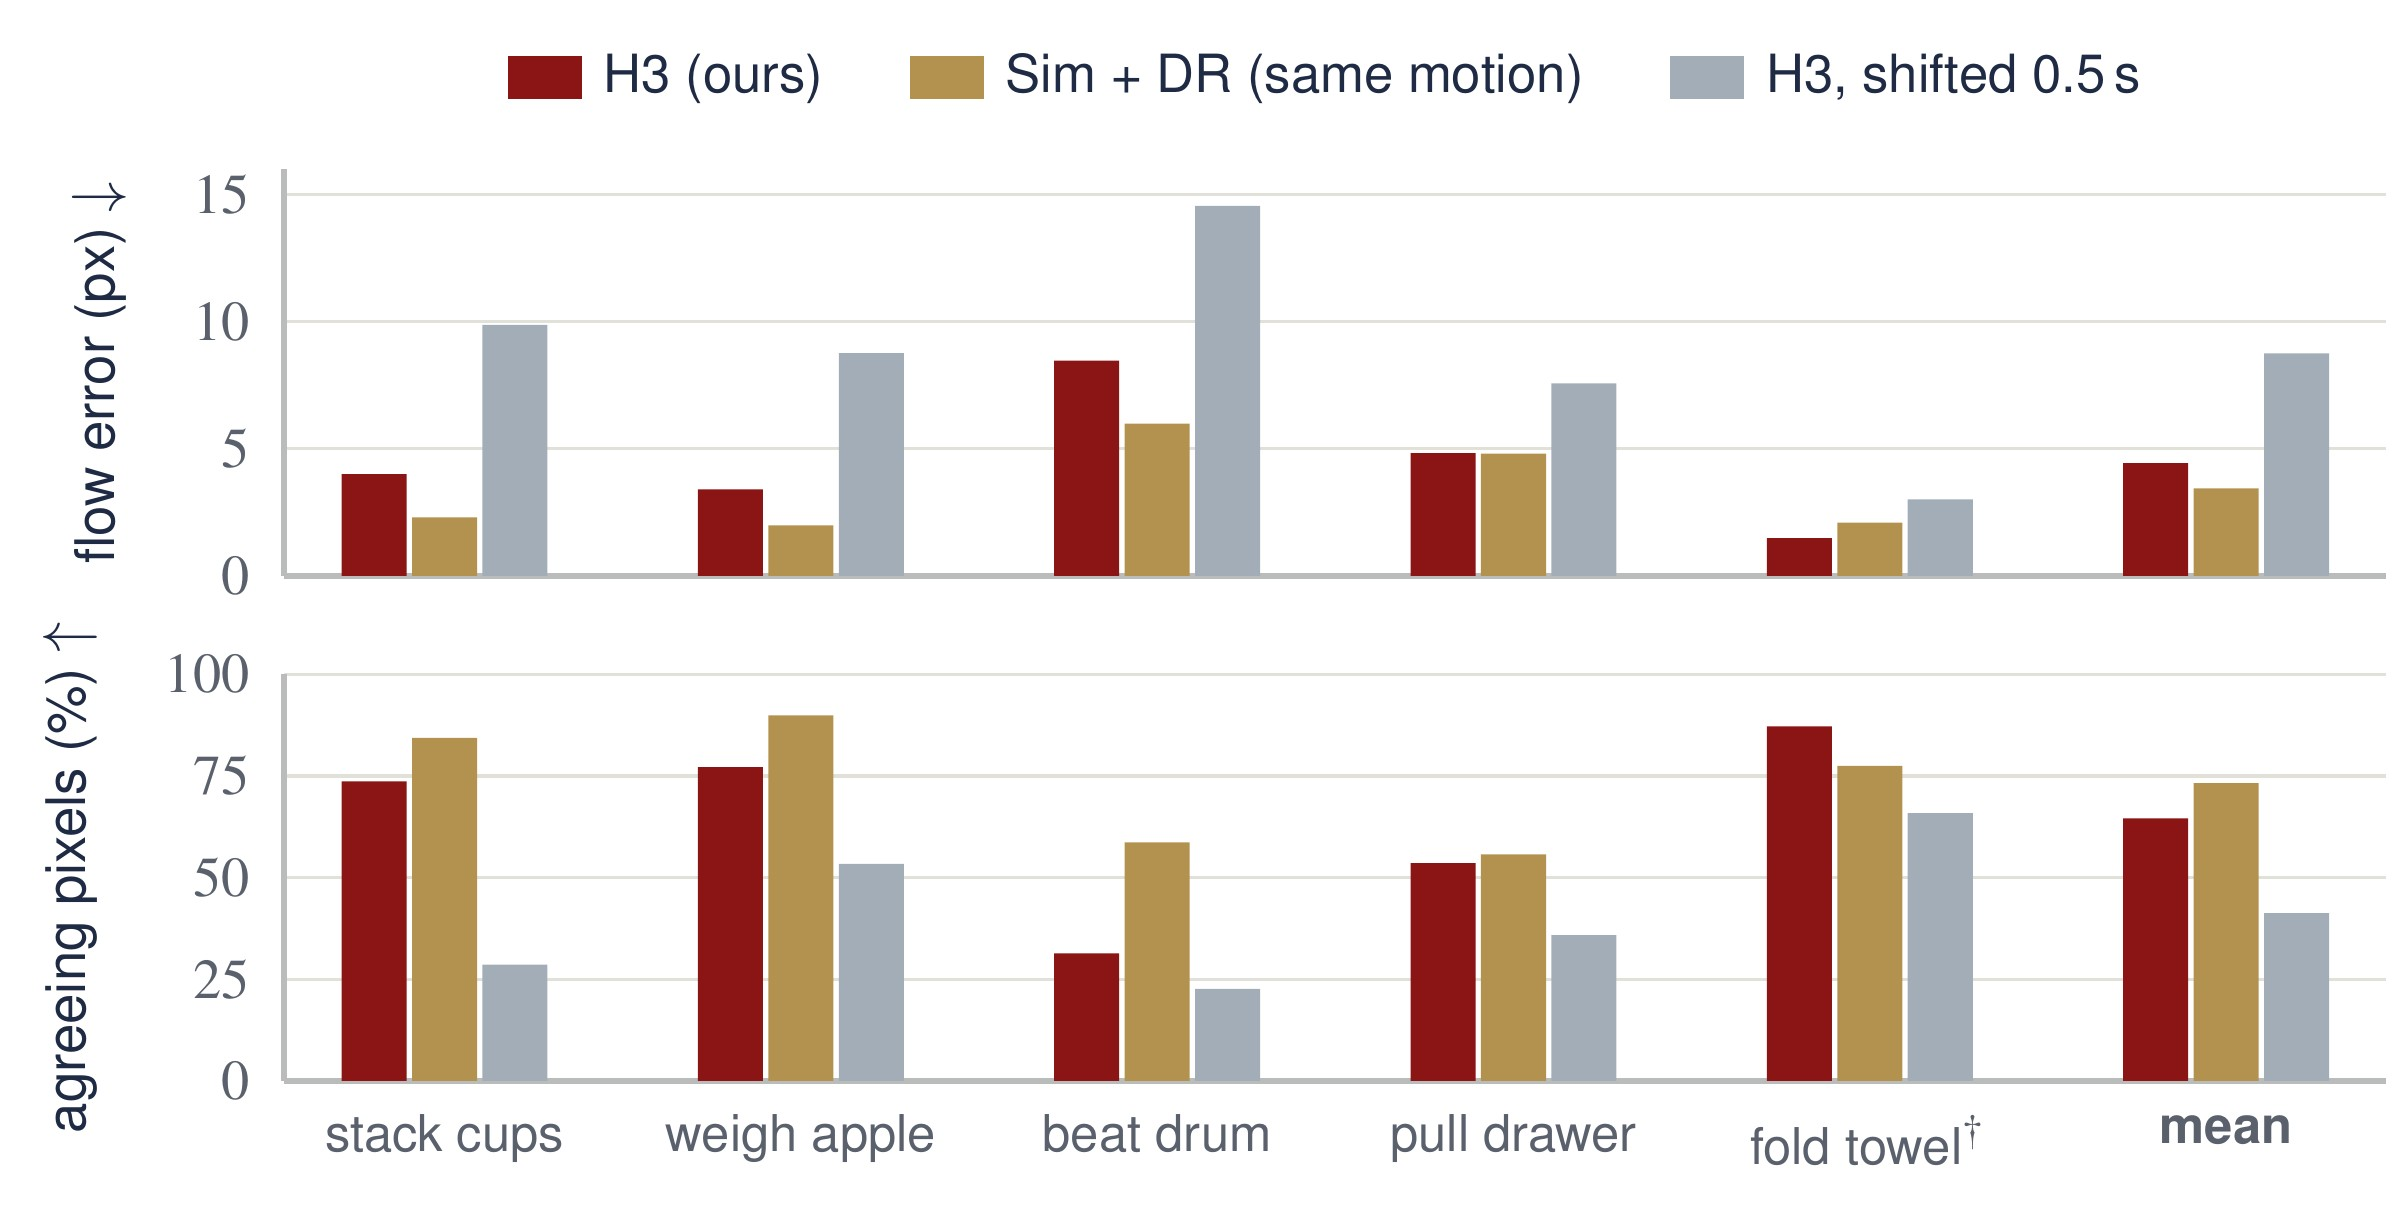
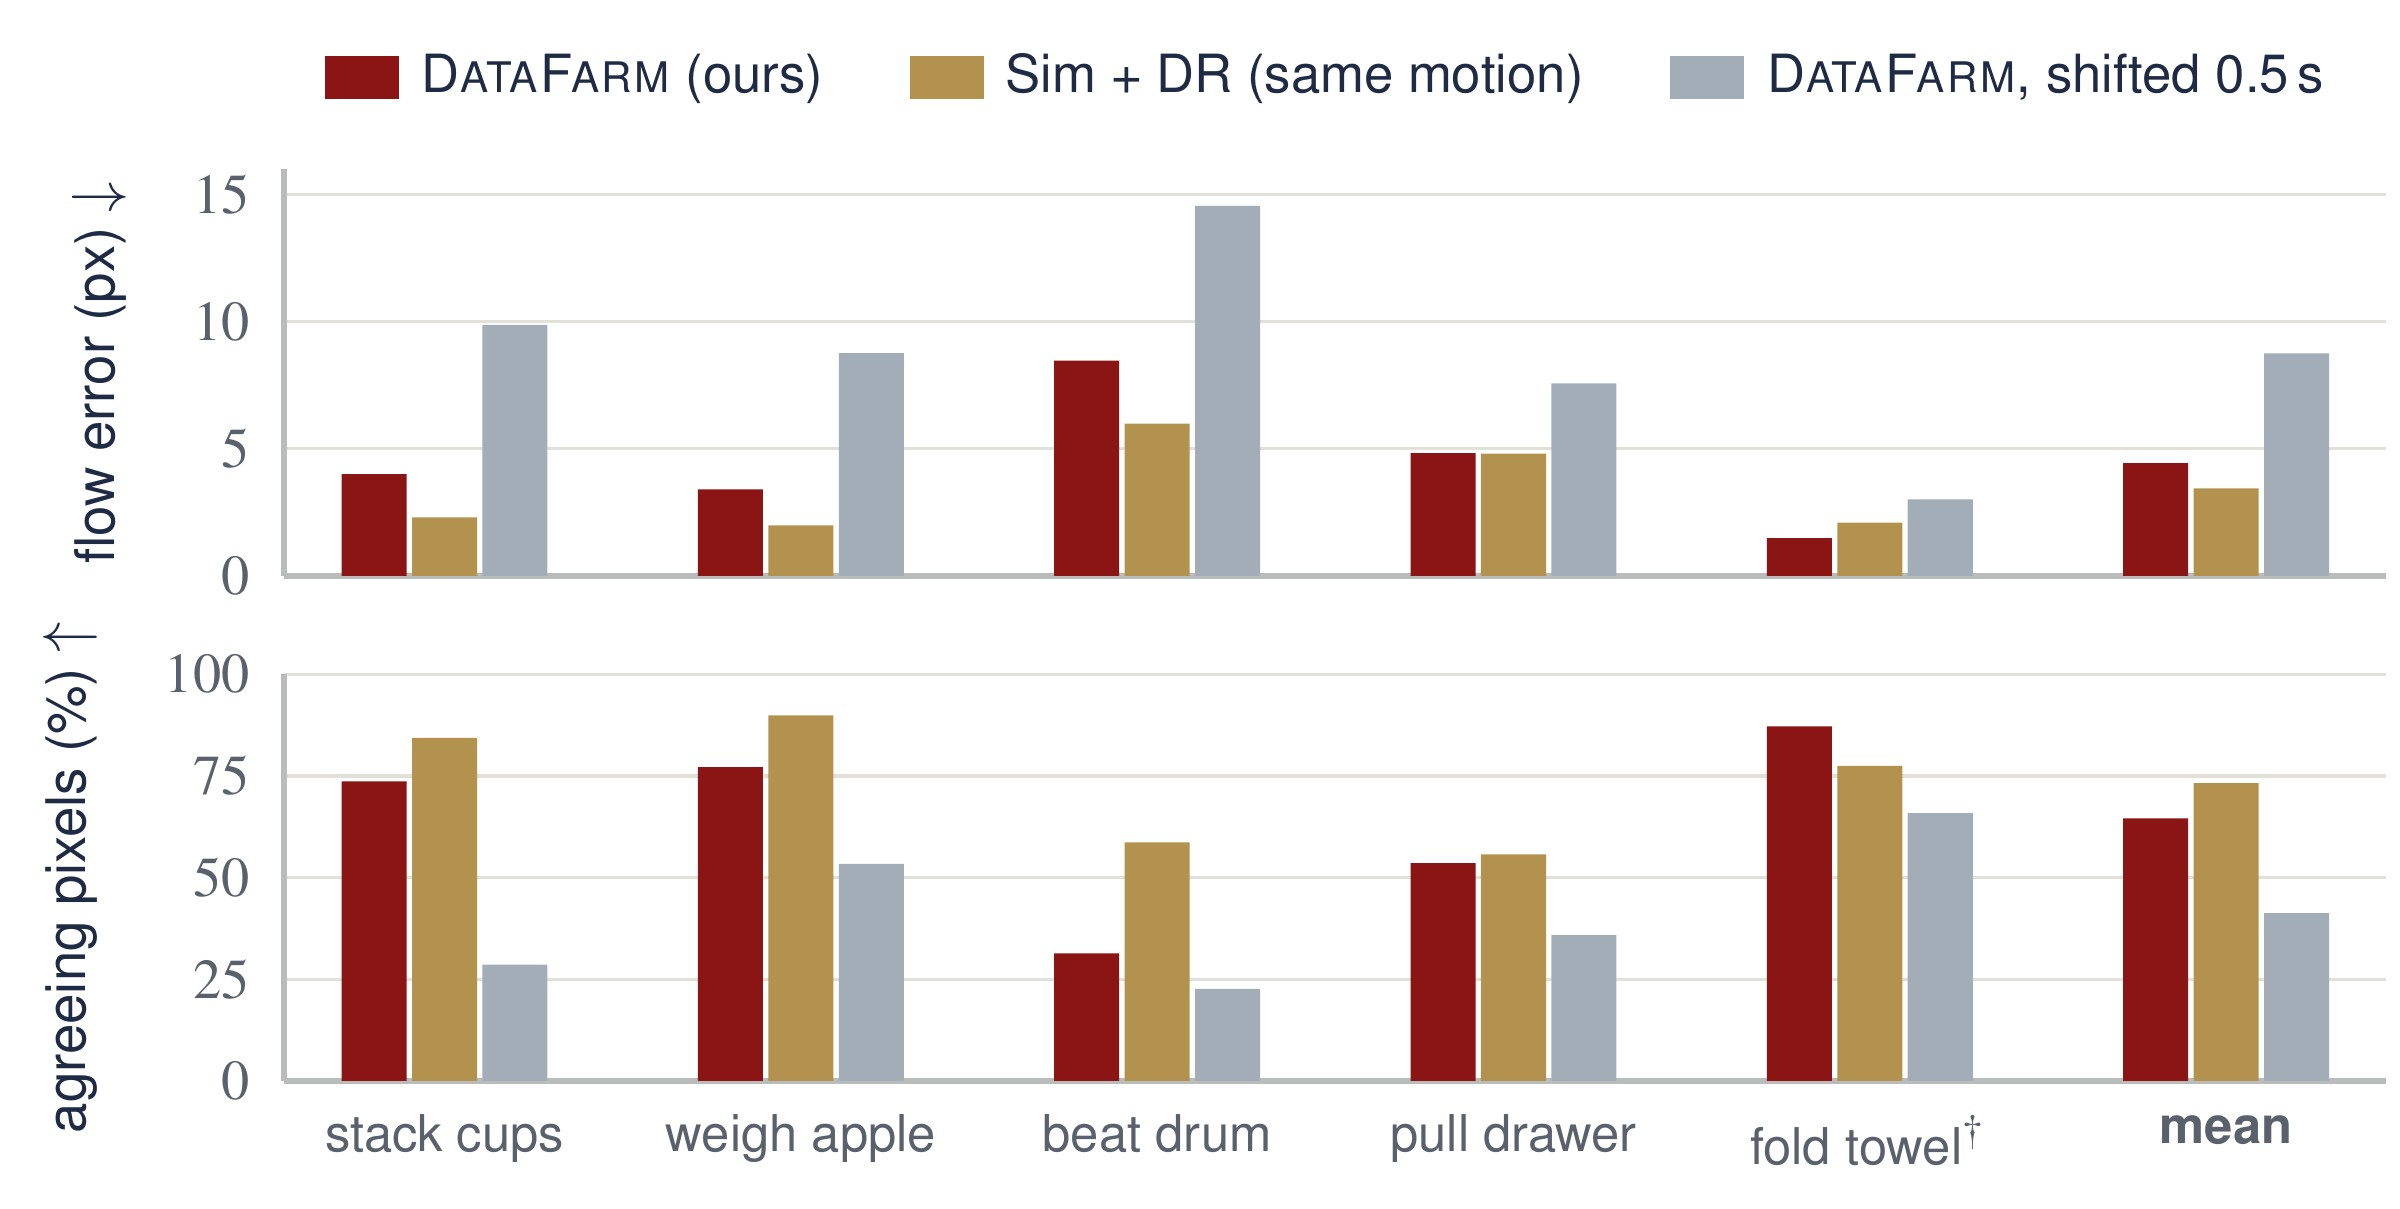
Drop the H3 / Seedance labels (r2s2v-paper aeac397)

Changed region(s): [[0.7188, 0.0306, 0.9688, 0.0918], [0.125, 0.0306, 0.2812, 0.0918]]

diff --git a/index.html b/index.html
@@ -137,7 +137,7 @@
     <div class="container is-max-widescreen" style="margin-top:2rem">
       <figure class="df-figure">
         <img src="static/images/teaser.jpg" alt="What the farm delivers: simulator vs. rendered frames for five tasks, scene variation by text, real-robot successes, and cost." loading="lazy">
-        <figcaption><b>What the farm delivers.</b> (a) The same frame of a simulator rollout and of our H3 rendering for each of the five tasks; the rendering is photographic and keeps the simulated arm pose, objects, and contacts (insets enlarge the dashed regions). (b) From a request and one calibration episode, the agent builds the task in simulation, and the video model renders each rollout in the original scene or in a new scene described by text. (c) Real-robot successes of policies trained only on farm data or on the same number of teleoperated episodes, in the original scene and under unseen appearance. (d) Mean costs over the five tasks.</figcaption>
+        <figcaption><b>What the farm delivers.</b> (a) The same frame of a simulator rollout and of our rendering for each of the five tasks; the rendering is photographic and keeps the simulated arm pose, objects, and contacts (insets enlarge the dashed regions). (b) From a request and one calibration episode, the agent builds the task in simulation, and the video model renders each rollout in the original scene or in a new scene described by text. (c) Real-robot successes of policies trained only on farm data or on the same number of teleoperated episodes, in the original scene and under unseen appearance. (d) Mean costs over the five tasks.</figcaption>
       </figure>
     </div>
 
@@ -216,7 +216,7 @@
       </div>
       <figure class="df-video-wide">
         <video id="gen-video" muted playsinline loop autoplay controls preload="metadata" poster="static/videos/gen_cups.jpg"><source src="static/videos/gen_cups.mp4" type="video/mp4"></video>
-        <figcaption><span>Simulator</span><span class="ours" id="gen-ours-label">DataFarm render (H3)</span></figcaption>
+        <figcaption><span>Simulator</span><span class="ours" id="gen-ours-label">DataFarm render</span></figcaption>
       </figure>
 
       <h3 class="title is-4 has-text-centered" style="margin-top:2.6rem">New tabletops and lighting</h3>
@@ -224,30 +224,30 @@
       <div class="df-ood-grid">
         <figure class="df-ood">
           <video muted playsinline loop autoplay controls preload="metadata" poster="static/videos/ood_lamp.jpg"><source src="static/videos/ood_lamp.mp4" type="video/mp4"></video>
-          <figcaption><strong>Warm lamp light</strong><span>Pull drawer &middot; Seedance &middot; 2&times;</span></figcaption>
+          <figcaption><strong>Warm lamp light</strong><span>Pull drawer &middot; 2&times;</span></figcaption>
         </figure>
         <figure class="df-ood">
           <video muted playsinline loop autoplay controls preload="metadata" poster="static/videos/ood_felt.jpg"><source src="static/videos/ood_felt.mp4" type="video/mp4"></video>
-          <figcaption><strong>Blue felt</strong><span>Stack cups &middot; Seedance &middot; 2.4&times;</span></figcaption>
+          <figcaption><strong>Blue felt</strong><span>Stack cups &middot; 2.4&times;</span></figcaption>
         </figure>
         <figure class="df-ood">
           <video muted playsinline loop autoplay controls preload="metadata" poster="static/videos/ood_marble.jpg"><source src="static/videos/ood_marble.mp4" type="video/mp4"></video>
-          <figcaption><strong>Marble table</strong><span>Beat drum &middot; Seedance &middot; 1.5&times;</span></figcaption>
+          <figcaption><strong>Marble table</strong><span>Beat drum &middot; 1.5&times;</span></figcaption>
         </figure>
         <figure class="df-ood">
           <video muted playsinline loop autoplay controls preload="metadata" poster="static/videos/ood_steel.jpg"><source src="static/videos/ood_steel.mp4" type="video/mp4"></video>
-          <figcaption><strong>Brushed steel</strong><span>Weigh apple &middot; H3 &middot; 1&times;</span></figcaption>
+          <figcaption><strong>Brushed steel</strong><span>Weigh apple &middot; 1&times;</span></figcaption>
         </figure>
       </div>
 
       <h3 class="title is-4 has-text-centered" style="margin-top:2.6rem">Real, simulated, domain-randomized, and farm episodes</h3>
       <figure class="df-figure"><img src="static/images/data_comparison.jpg" alt="Real, simulator, Sim + DR, and farm frames for five tasks" loading="lazy">
-        <figcaption>Real, simulated, and farm episodes at the same task phase (head view). Sim + DR adds domain-randomized textures and lighting to the simulator frame, and ours renders the simulator frame (renderer in the corner). Real and simulated frames come from different episodes, so object placements differ. Kernel distance (KID, &times;10<sup>3</sup>) of head-view frames to real camera frames: 0.83 for H3 and 0.88 for Seedance, against 1.93 for the simulator and 2.50 with domain randomization.</figcaption></figure>
+        <figcaption>Real, simulated, and farm episodes at the same task phase (head view). Sim + DR adds domain-randomized textures and lighting to the simulator frame, and ours renders the simulator frame. Real and simulated frames come from different episodes, so object placements differ. Kernel distance (KID, &times;10<sup>3</sup>) of head-view frames to real camera frames: 0.83&ndash;0.88 for farm renders, against 1.93 for the simulator and 2.50 with domain randomization.</figcaption></figure>
 
       <h3 class="title is-4 has-text-centered" style="margin-top:2.6rem">Do renders keep the simulated motion?</h3>
       <p class="section-sub">Action labels stay valid only if the video shows the motion the simulator executed. We compare the optical flow of each render with that of its untextured simulator video.</p>
       <figure class="df-figure df-small"><img src="static/images/flow.jpg" alt="Optical-flow error and agreement between renders and the simulator video, per task" loading="lazy">
-        <figcaption>Averaged over the five tasks, H3 renders deviate from the simulated flow by 4.4 pixels and agree on 65% of moving pixels, close to Sim + DR (3.4 pixels, 73%), which has exactly the simulated motion. The same renders paired with the simulator video 0.5 s later reach 8.8 pixels and 41%, so the measure separates matched from mismatched motion.</figcaption></figure>
+        <figcaption>Averaged over the five tasks, farm renders deviate from the simulated flow by 4.4 pixels and agree on 65% of moving pixels, close to Sim + DR (3.4 pixels, 73%), which has exactly the simulated motion. The same renders paired with the simulator video 0.5 s later reach 8.8 pixels and 41%, so the measure separates matched from mismatched motion.</figcaption></figure>
 
       <h3 class="title is-4 has-text-centered" style="margin-top:2.6rem">Objects that are hard to simulate</h3>
       <figure class="df-figure df-small"><img src="static/images/hard_objects.jpg" alt="Lit scale display, drum, and towel: simulator, farm render, and real" loading="lazy">
@@ -296,7 +296,7 @@
             "note": "Original scene: DataFarm 93, teleop data 84, Sim + DR 26 successes in 100 trials."},
     "ood": {"teleop": [6, 12, 8, 11, 9, 46], "simdr": [4, 0, 7, 6, 4, 21], "ours": [17, 18, 20, 18, 14, 87], "n": [20, 20, 20, 20, 20, 100],
             "note": "Unseen tablecloth and coloured light: DataFarm 87, teleop data 46, Sim + DR 21 successes in 100 trials."},
-    "genLabel": {"cups": "DataFarm render (H3)", "apple": "DataFarm render (Seedance, new tabletop) \u00b7 2\u00d7", "drum": "DataFarm render (Seedance, marble table) \u00b7 1.5\u00d7", "drawer": "DataFarm render (H3)", "towel": "DataFarm render (Seedance)"}
+    "genLabel": {"cups": "DataFarm render", "apple": "DataFarm render (new tabletop) \u00b7 2\u00d7", "drum": "DataFarm render (marble table) \u00b7 1.5\u00d7", "drawer": "DataFarm render", "towel": "DataFarm render"}
   }</script>
   </main>
 
